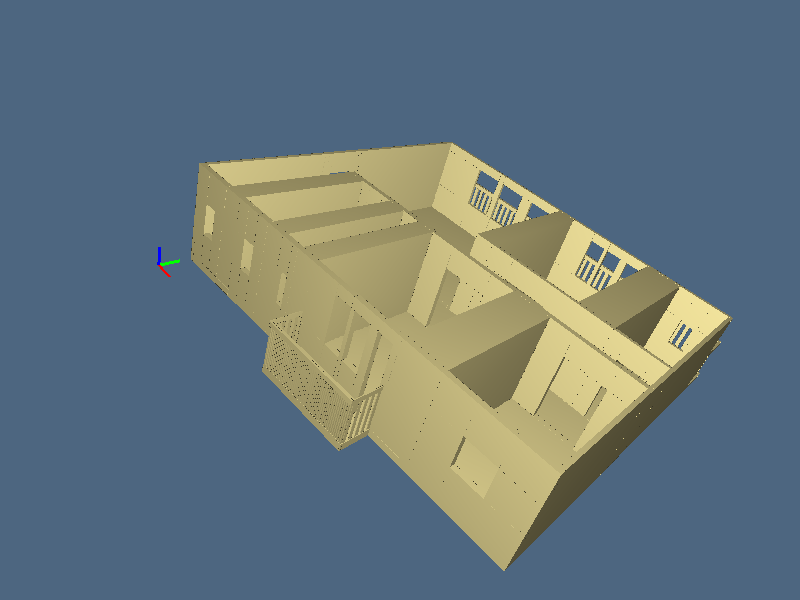
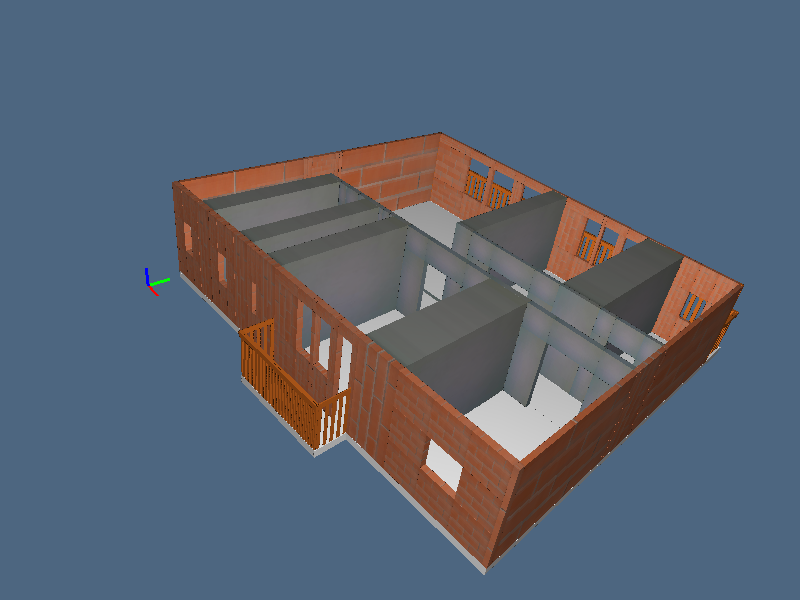
homework3

diff --git a/2014-05-16/python/exercise1.py b/2014-05-16/python/exercise1.py
@@ -21,7 +21,7 @@ DRSM = COMP([STRUCT,MKPOLS])
 #funzione che mi permette di numerare le celle
 def numbers_faces(model):
     hpc = SKEL_1(STRUCT(MKPOLS(model)))
-    return cellNumbering (model,hpc)(range(len(model[1])),RED,1)
+    return cellNumbering (model,hpc)(range(len(model[1])),RED,2)
 
 #funzione che mi permette (passando in maniera opportuna la giusta lista) di inserire un sub_diagram in diverse celle del master
 def insert_into_cell(obg,model,lista):
@@ -55,6 +55,19 @@ def larMoltiply(model,num,space,assi):
         CV = CAT(aggCV)
         return (V,CV)
 
+
+#funzione che mi permette di colorare alcune celle del master con TEXTURE
+def color_texture(diagram,text,cells):
+    for k in cells:
+        diagram[k] = TEXTURE(text)(diagram[k])
+    return diagram
+
+
+#funzione che mi permette di colorare alcune celle del master
+def color_cells(diagram,values,cells):
+    for k in cells:
+        diagram[k] = COLOR([values[0]/255.0,values[1]/255.0,values[2]/255.0])(diagram[k])
+    return diagram
 
 
 """NOTA IMPORTANTISSIMA: IO ED ALCUNI DEI MIEI COLLEGHI, AGGIORNANDO IL LAR, ABBIAMO RISCONTRATO ALCUNI PROBLEMI NELL'ESEGUIRE IL 
@@ -240,9 +253,19 @@ master_apartment =  insert_into_cell(windows_double,master_apartment,[70,60,34])
 hpc_ma = numbers_faces(master_apartment)
 #VIEW(hpc_ma)
 
-master_apartment_c = COLOR([0.9686,0.9098,0.6235])(DRSM(master_apartment))
-#master_apartment_c = TEXTURE('C:\temp_inf_teorica\gc\muro2.jpg')(DRSM(master_apartment))
-VIEW(master_apartment_c)
+"""incomincio a colorare alcune parti"""
+master_apartment_P = MKPOLS(master_apartment)
+
+
+master_apartment_P = color_texture(master_apartment_P,'../images/muro.png',[3,48,54,80,86]+range(257,262)+range(297,354)+range(354,388))
+master_apartment_P = color_texture(master_apartment_P,'../images/muro.png',[1,5,10,19,28,37,46,50,52,64,73,78])
+master_apartment_P = color_texture(master_apartment_P,'../images/muro_bianco.png',[12,14,21,30,32,39,57,8,23,41,60,69,62,71]+range(262,272)+range(277,297))
+master_apartment_P = color_cells(master_apartment_P,[210,105,30],range(110,172)+[56,82,90,91,95,96,97,88,93,100,101,103,105,106,108])
+master_apartment_P = color_cells(master_apartment_P,[210,105,30],range(197,257)+[188,193,173,178,185,186,190,191,196,195,180,181,182,175,176])
+
+
+apartment = STRUCT(master_apartment_P)
+VIEW(apartment)
 
 
 

diff --git a/2014-05-16/python/exercise2.py b/2014-05-16/python/exercise2.py
@@ -6,6 +6,7 @@ Created on 16/mag/2014
 from exercise1 import *
 
 
+
 V,CV = master_apartment
 DRSM = COMP([STRUCT,MKPOLS])
 DRAW = COMP([VIEW,STRUCT,MKPOLS])
@@ -32,6 +33,12 @@ condominio =  insert_into_cell(master_apartment_s,condominio,[9,7,5,3,1])
 hpc_c = numbers_faces(condominio)
 #VIEW(hpc_c)
 
+
+"""NOTA IMPORTANTE"""
+#PER COLORARLO COME NELL EXERCISE1.PY SAREBBE STATA UN IMPRESA (PER L ENORME QUANTITA DI CELLE) IN QUANTO IL CONDOMINIO LHO COSTRUITO USANDO IL
+#DIAGRAM2CELL E QUINDI LE STESSE TECNICHE USATE NELL EXERCISE1.PY. POTREI USARE DELLE TRASLAZIONI O DEGLI SCALE PER COSTRUIRE IL CONDOMINIO ANZICHE
+#USARE IL DIAGRAM2CELL, MA NON SO SE L ESERCIZIO2 PREVEDEVA ANCHE EVENTUALMENTE DI USARE QUESTA BANALE METODOLOGIA...ALTRIMENTI IL PROBLEMA NON SI SAREBBE 
+#POSTO. DISPIACE MOSTRARE QUESTA ORRENDA COLORAZIONE.... MA NON SAPEVO FARE ALTRIMENTI
 condominio = COLOR([0.8117,0.7098,0.23137])(DRSM(condominio))
 
 
